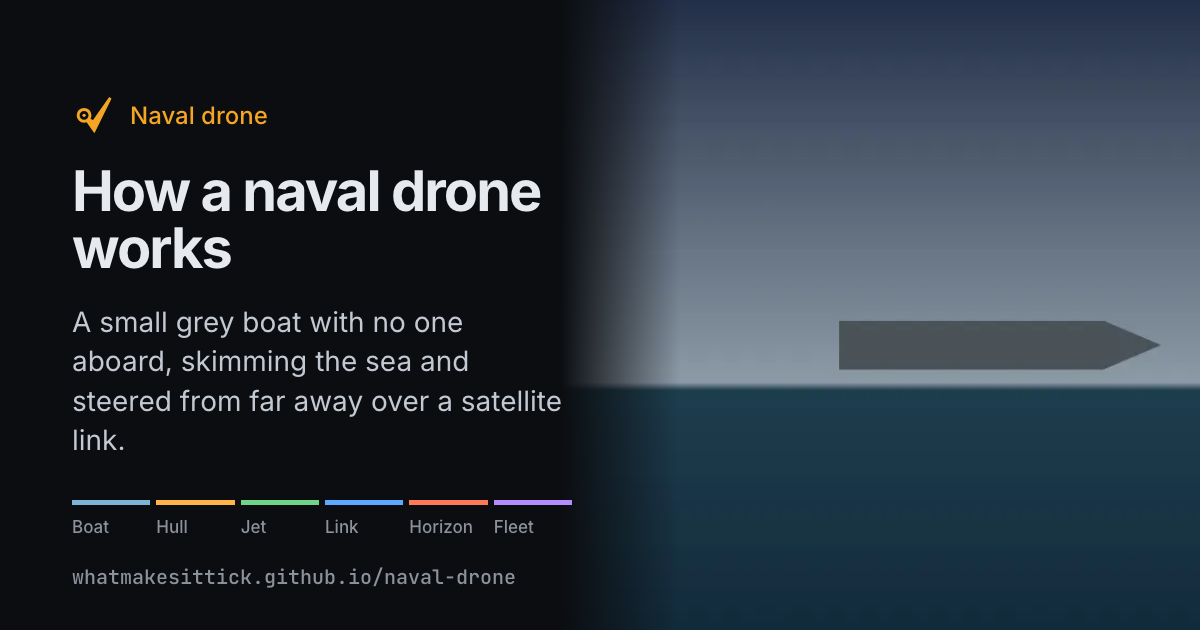
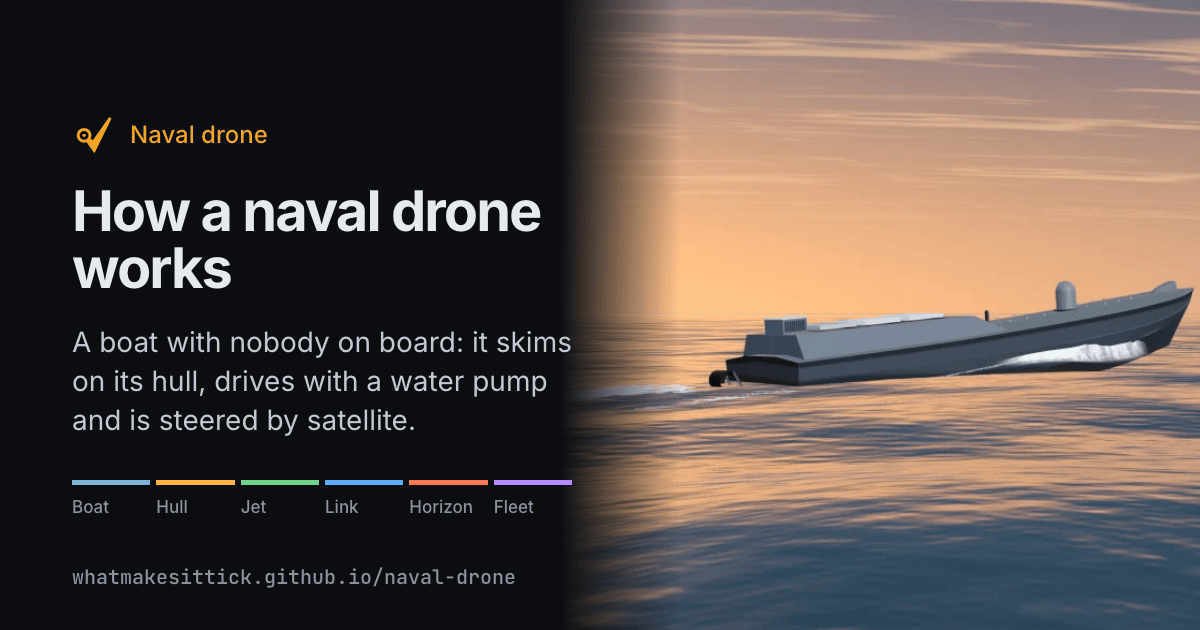
feat(naval-drone): add the cover and the link preview card

diff --git a/scripts/cards/naval-drone.html b/scripts/cards/naval-drone.html
@@ -140,8 +140,8 @@
       </p>
       <h1>How a naval drone works</h1>
       <p class="subtitle">
-        A small grey boat with no one aboard, skimming the sea and steered from far away over a
-        satellite link.
+        A boat with nobody on board: it skims on its hull, drives with a water pump and is steered
+        by satellite.
       </p>
       <ol class="topics">
         <li style="--tone: var(--launch)">Boat</li>
